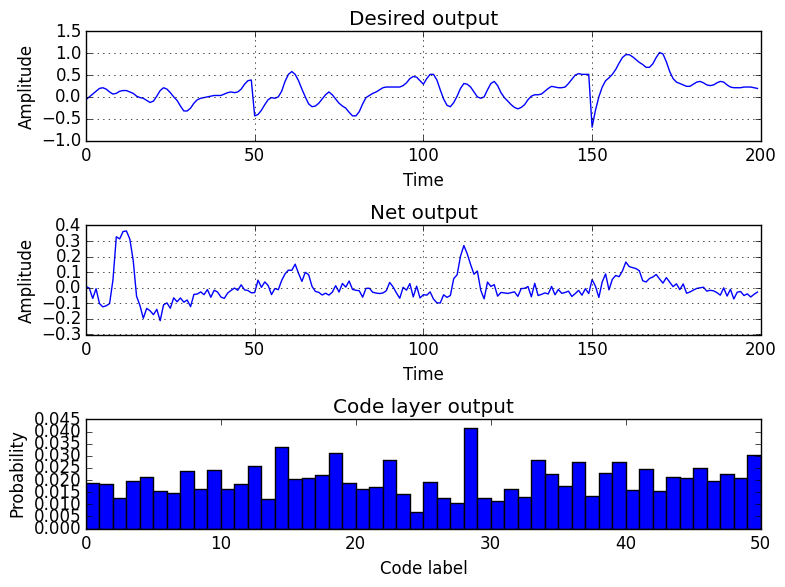
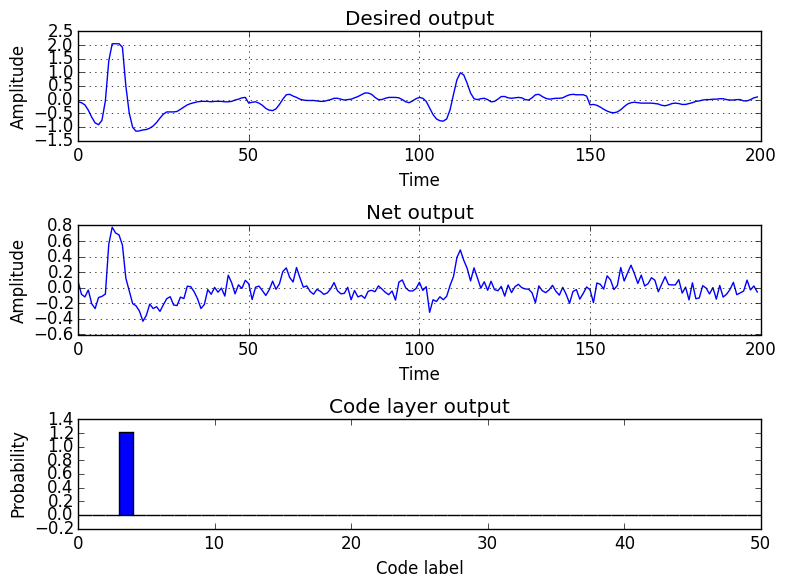
adding

diff --git a/autoencoder.py b/autoencoder.py
@@ -117,32 +117,32 @@ def model(input_shape, output_dim, num_hidden_units,num_hidden_units_2, num_code
             nonlinearity=lasagne.nonlinearities.rectify,
             )
 
-        l_hidden_2 = lasagne.layers.DenseLayer(
-            l_hidden_1,
-            num_units=num_hidden_units_2,
-            nonlinearity=lasagne.nonlinearities.rectify,
-            )
+        # l_hidden_2 = lasagne.layers.DenseLayer(
+        #     l_hidden_1,
+        #     num_units=num_hidden_units_2,
+        #     nonlinearity=lasagne.nonlinearities.rectify,
+        #     )
 
         l_code_layer = lasagne.layers.DenseLayer(
-            l_hidden_2,
+            l_hidden_1,
             num_units=num_code_units,
-            nonlinearity=lasagne.nonlinearities.softmax,
-            )
-
-        l_hidden_3 = lasagne.layers.DenseLayer(
-            l_code_layer,
-            num_units=num_hidden_units_2,
             nonlinearity=lasagne.nonlinearities.rectify,
             )
 
+        # l_hidden_3 = lasagne.layers.DenseLayer(
+        #     l_code_layer,
+        #     num_units=num_hidden_units_2,
+        #     nonlinearity=lasagne.nonlinearities.rectify,
+        #     )
+
         l_hidden_4 = lasagne.layers.DenseLayer(
-            l_hidden_3,
+            l_code_layer,
             num_units=num_hidden_units,
             nonlinearity=lasagne.nonlinearities.rectify,
             )
 
         l_out = lasagne.layers.DenseLayer(
-            l_hidden_2,
+            l_hidden_4,
             num_units=output_dim,
             nonlinearity=None,
             )
@@ -207,7 +207,7 @@ def funcs(dataset, network, batch_size=BATCH_SIZE, learning_rate=LEARNING_RATE, 
         L_penalty=L_penalty
     )
 
-def main(tetrode_number=TETRODE_NUMBER,num_hidden_units=300,num_hidden_units_2=200,num_code_units=100):
+def main(tetrode_number=TETRODE_NUMBER,num_hidden_units=300,num_hidden_units_2=200,num_code_units=50):
     """
         This is the main method that sets up the experiment
     """

diff --git a/recurrent_data.py b/recurrent_data.py
@@ -149,10 +149,32 @@ def convolvedData(tetrodeNumber=11,freq=1000,basename=BASENAME):
 
 	outDim = len(x)
 
-	g = gaussianMatrix(outDim,inDim)
-	out = np.dot(g,downData)
+	# g = gaussianMatrix(outDim,inDim)
+	# out = np.dot(g,downData)
 
-	return out
+	l = linearConv(outDim,downData)
+
+	return l
+
+
+def linearConv(outDim,data):
+	inDim = len(data)
+	seqLen = len(data[0])
+	stepsize = int(inDim/outDim)
+	result = []
+	for i in range(inDim)[::stepsize]:
+		start = i - stepsize
+		r = np.zeros(seqLen)
+		for j in range(start,start+2*stepsize+1):
+			if j < 0 or j >= inDim:
+				continue
+			if j <= i:
+				r += abs(j-i)/stepsize*data[i]
+			else:
+				r += abs(i-j)/stepsize*data[i]
+		result.append(r)
+	return np.asarray(result)
+
 
 def formatData(tetrodeNumber=11,basename=BASENAME):
 	recData = firstRecurrentData(tetrodeNumber,basename)
@@ -177,4 +199,10 @@ if __name__=="__main__":
 	
 	out = convolvedData()	
 
-	np.save('convolved_data.npy', out)
+	# np.save('convolved_data.npy', out)
+
+	# data = np.random.rand(30,2)
+
+	# l = linearConv(10,data)
+
+	# print(l.shape)
